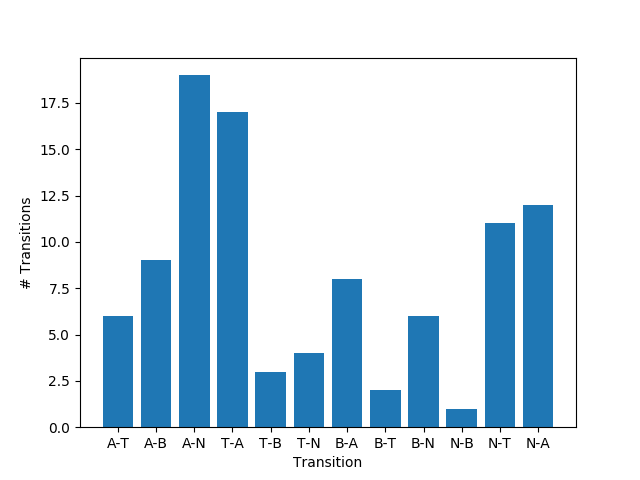
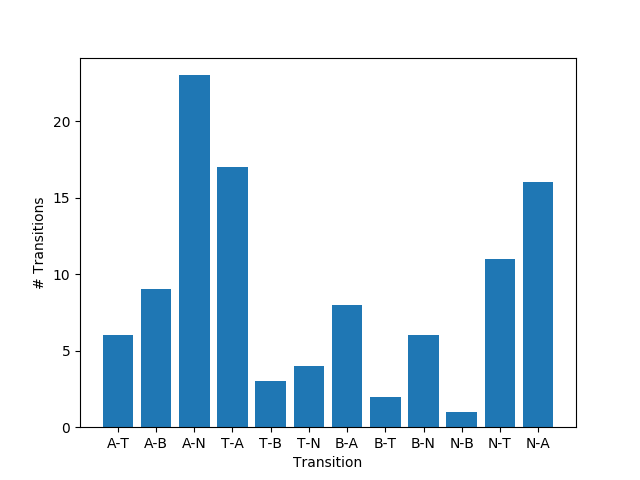
2 more subjects

diff --git a/src/plot-rfc-transitions.py b/src/plot-rfc-transitions.py
@@ -48,6 +48,8 @@ sigve2      = [3,2,0,2,0,1,2,0,1,1,0,0]
 
 shower_atle = [0,0,4,0,0,0,0,0,0,0,0,3]
 nshower_paul= [0,0,2,0,0,0,0,0,0,0,0,2]
+vegard = [0,0,2,0,0,0,0,0,0,0,0,2]
+eivind = [0,0,2,0,0,0,0,0,0,0,0,2]
 
 
 def add_list_elements_together(*lists):
@@ -64,7 +66,7 @@ def add_list_elements_together(*lists):
 
 
 print("SUM ALL DATASETS CONCATINATED")
-transitions = add_list_elements_together(thomas, thomas2, thomas3, sigve, sigve2, shower_atle, nshower_paul)
+transitions = add_list_elements_together(thomas, thomas2, thomas3, sigve, sigve2, shower_atle, nshower_paul, vegard, eivind)
 print(transitions)
 
 
